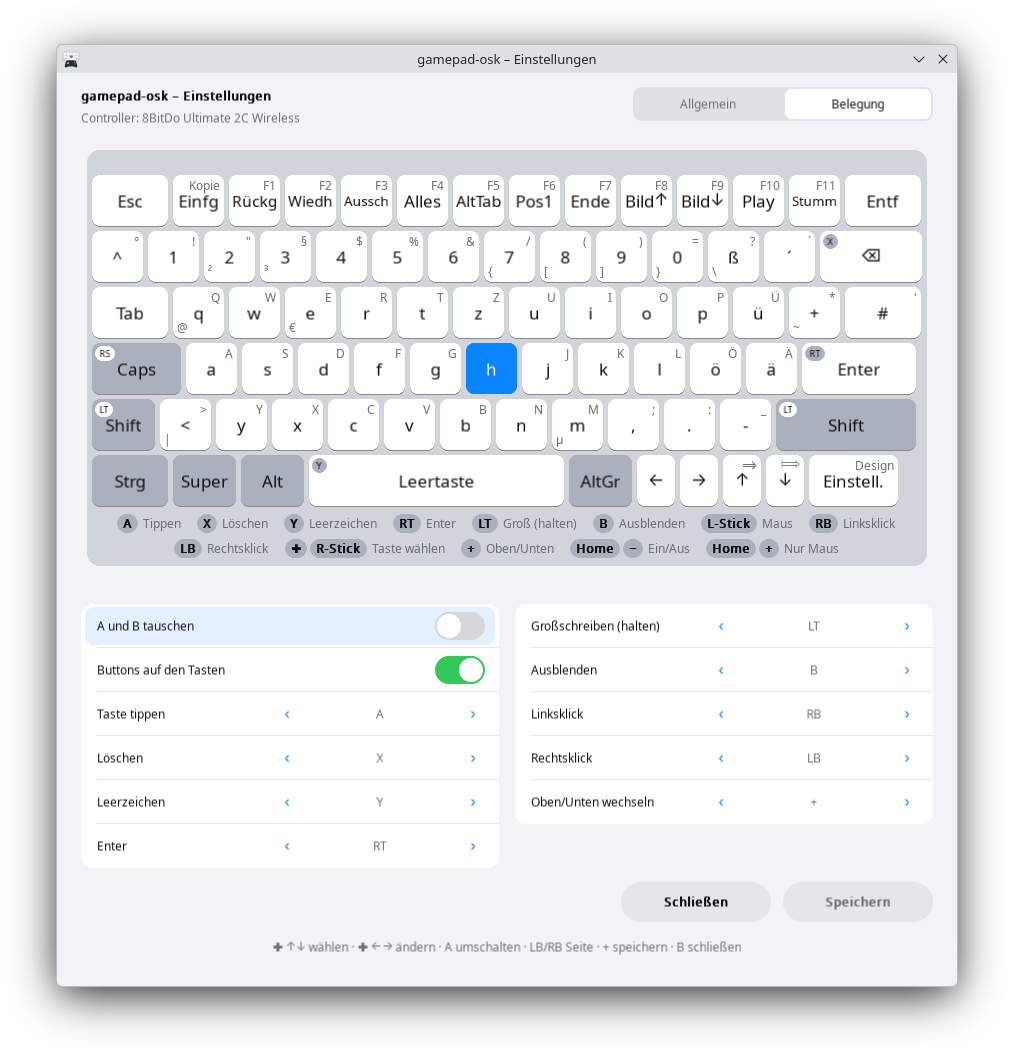
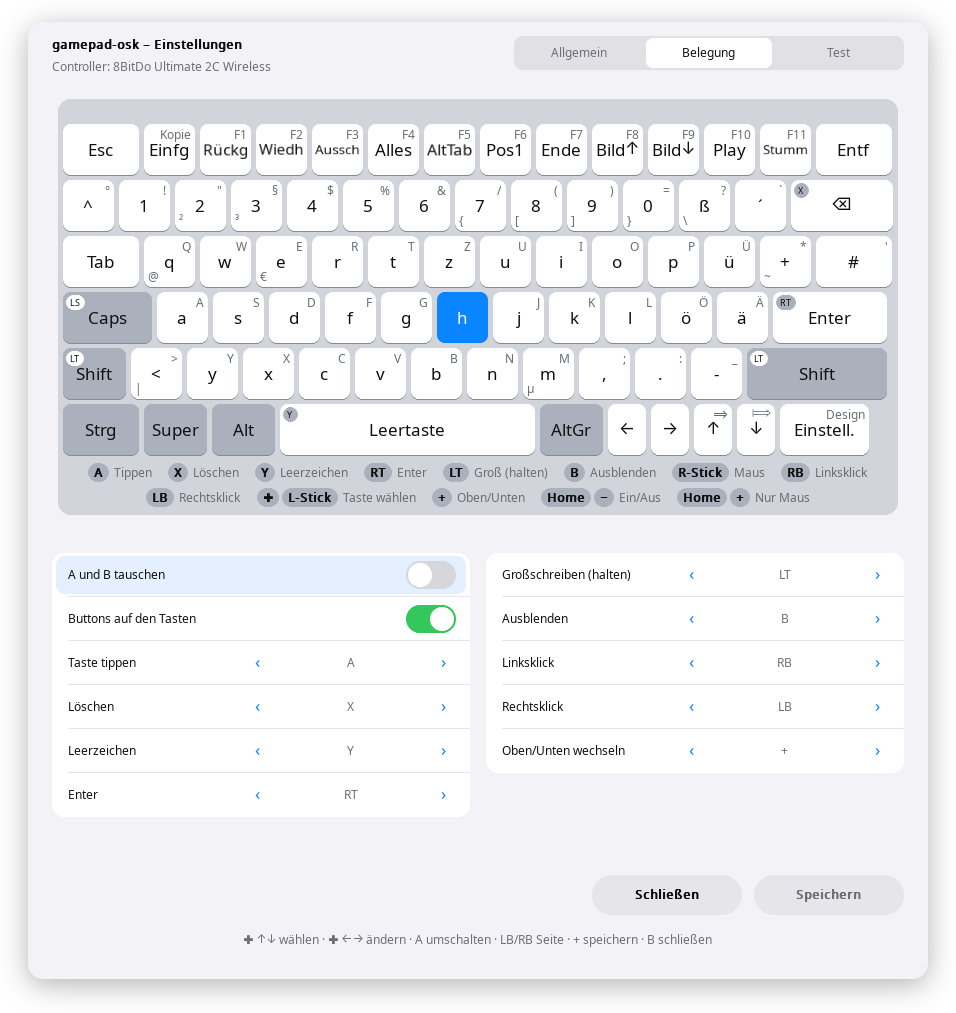
docs: render mouse badge and settings screenshots off-screen
New --mouse-badge for --screenshot and GAMEPAD_OSK_SETTINGS_SHOT for the
settings window: clean pictures without the desktop behind them, now
showing the fine-control sliders.

diff --git a/screenshot.go b/screenshot.go
@@ -2,6 +2,7 @@ package main
 
 import (
 	"fmt"
+	"os"
 	"runtime"
 )
 
@@ -13,6 +14,7 @@ type ScreenshotOptions struct {
 	CursorRow   int
 	CursorCol   int
 	Shift       bool
+	MouseBadge  bool // render the mouse-mode badge instead of the keyboard
 }
 
 // RenderScreenshot draws the keyboard once into a BMP file. It needs no
@@ -50,6 +52,10 @@ func RenderScreenshot(cfg Config, o ScreenshotOptions) error {
 		height += LegendHeight(lines, lm, pad)
 	}
 
+	if o.MouseBadge {
+		return renderMouseBadgeShot(cfg, o, profile, lang, unit, pad, fonts)
+	}
+
 	sdlr, surf, err := SDL3CreateSurfaceRenderer(width, height)
 	if err != nil {
 		fonts.Close()
@@ -78,5 +84,77 @@ func RenderScreenshot(cfg Config, o ScreenshotOptions) error {
 	}
 	fmt.Printf("Saved %dx%d %s (theme %s, layout %s, controller %s)\n",
 		width, height, o.Path, cfg.Theme.Name, layoutName, profile.Name)
+	return nil
+}
+
+// renderMouseBadgeShot draws the mouse-mode badge on a transparent
+// background, nothing behind it (README/blog image).
+func renderMouseBadgeShot(cfg Config, o ScreenshotOptions, profile ControllerProfile, lang string, unit, pad int32, fonts *FontSet) error {
+	items := BuildMouseLegend(cfg, profile, lang)
+	// Measure with a throwaway renderer, then draw at the exact size.
+	mr, ms, err := SDL3CreateSurfaceRenderer(1, 1)
+	if err != nil {
+		fonts.Close()
+		return err
+	}
+	measure := NewRenderer(mr, GetTheme(cfg.Theme.Name), unit, pad, fonts, nil, legendMetrics{})
+	w, h := measure.MouseBadgeSize(items)
+	SDL3DestroyRenderer(mr)
+	SDL3DestroySurface(ms)
+
+	sdlr, surf, err := SDL3CreateSurfaceRenderer(w, h)
+	if err != nil {
+		fonts.Close()
+		return err
+	}
+	defer SDL3DestroySurface(surf)
+	defer SDL3DestroyRenderer(sdlr)
+	SDL3SetRenderDrawBlendMode(sdlr, 1)
+	rend := NewRenderer(sdlr, GetTheme(cfg.Theme.Name), unit, pad, fonts, nil, legendMetrics{})
+	defer rend.Destroy()
+	rend.MarkDirty()
+	rend.DrawMouseBadge(items)
+	if err := SDL3SaveBMP(surf, o.Path); err != nil {
+		return err
+	}
+	fmt.Printf("Saved %dx%d %s (mouse badge, theme %s, controller %s)\n", w, h, o.Path, cfg.Theme.Name, profile.Name)
+	return nil
+}
+
+// renderSettingsShot draws the settings window once into a BMP file
+// (README/blog images). GAMEPAD_OSK_SETTINGS_PAD sets the controller name
+// shown in the header; [gamepad] controller sets the button names.
+func renderSettingsShot(s *settingsUI, path string) error {
+	s.padName = os.Getenv("GAMEPAD_OSK_SETTINGS_PAD")
+	if p := s.cfg.Gamepad.Controller; p != "" && p != ProfileAuto {
+		s.detectedProf = p
+	}
+	s.layoutWindow(1080)
+	sdlr, surf, err := SDL3CreateSurfaceRenderer(s.winW, s.winH)
+	if err != nil {
+		return err
+	}
+	defer SDL3DestroySurface(surf)
+	defer SDL3DestroyRenderer(sdlr)
+	SDL3SetRenderDrawBlendMode(sdlr, 1)
+	s.sdl = sdlr
+	s.uiFonts, err = LoadFonts(52, 0)
+	if err != nil {
+		return err
+	}
+	s.ui = NewRenderer(sdlr, GetTheme("light"), 52, 6, s.uiFonts, nil, legendMetrics{})
+	s.ui.Embedded = true
+	defer s.ui.Destroy()
+	s.rebuildPreview()
+	defer func() {
+		if s.preview != nil {
+			s.preview.Destroy()
+		}
+	}()
+	s.draw()
+	if err := SDL3SaveBMP(surf, path); err != nil {
+		return err
+	}
+	fmt.Printf("Saved %dx%d %s (settings page %d)\n", s.winW, s.winH, path, s.page)
 	return nil
 }

diff --git a/main.go b/main.go
@@ -92,6 +92,8 @@ func main() {
 			}
 		case "--shift":
 			shot.Shift = true
+		case "--mouse-badge":
+			shot.MouseBadge = true
 		case "--config", "-c":
 			if i+1 < len(args) {
 				i++
@@ -257,6 +259,7 @@ OPTIONS
   --controller NAME    Button names: auto, xbox, playstation, nintendo, 8bitdo, generic
   --screenshot FILE    Render the keyboard into a BMP file and exit
                        (with --cursor ROW,COL and --shift for the picture)
+  --mouse-badge        With --screenshot: render the mouse-mode badge instead
   --toggle             Toggle visibility of running instance (for evsieve/hotkey)
   --mouse              Toggle mouse mode of the running instance (keyboard hidden)
   --daemon             Start hidden, wait for toggle combo or --toggle to show

diff --git a/settings.go b/settings.go
@@ -928,13 +928,19 @@ func RunSettings(cfg Config) error {
 	detected := ResolveLayout("auto")
 	s.detLayout = detected
 	s.tx = settingsTexts[UILanguage(detected)]
-	s.reopenGamepad()
+	shot := os.Getenv("GAMEPAD_OSK_SETTINGS_SHOT") // docs screenshots: render off-screen
+	if shot == "" {
+		s.reopenGamepad()
+	}
 	s.buildRows()
 	switch os.Getenv("GAMEPAD_OSK_SETTINGS_PAGE") { // docs screenshots
 	case "buttons":
 		s.setPage(1)
 	case "test":
 		s.setPage(2)
+	}
+	if shot != "" {
+		return renderSettingsShot(s, shot)
 	}
 
 	if os.Getenv("WAYLAND_DISPLAY") != "" && os.Getenv("SDL_VIDEODRIVER") == "" {

diff --git a/README.md b/README.md
@@ -139,7 +139,7 @@ Xbox names:
 click, the other stick scrolls, d-pad = arrow keys, B ends mouse mode,
 Guide + Select switches to the keyboard.
 
-<img src="docs/mouse.png" width="420" alt="Mouse mode badge: a small rounded bar at the bottom of the screen with a blue mouse symbol and A Klick, LB Rechtsklick, R-Stick Scrollen, B Beenden">
+<img src="docs/mouse.png" width="420" alt="Mouse mode badge: a small rounded bar at the bottom of the screen with a blue mouse symbol and A Klick, LB Rechtsklick, L-Stick Scrollen, B Beenden">
 
 While the keyboard is **hidden** it reads only the two combos: no mouse,
 no grab. Games keep the controller to themselves (e.g. Minecraft with
@@ -151,7 +151,7 @@ reach the game.
 Start menu → **gamepad-osk Settings**, `gamepad-osk --settings`, or the
 **Settings** key on the keyboard itself (Shift + Settings cycles themes).
 
-<img src="docs/settings.png" width="640" alt="Settings window: keyboard preview on top, tabs General and Buttons, below two columns with Start at login, Theme, Keyboard layout, Button names, Show/hide with, Mouse only with, Mouse, Mouse speed, Transparency, Show button legend, Position and Size, buttons Close and Save">
+<img src="docs/settings.png" width="640" alt="Settings window: keyboard preview on top, tabs General and Buttons, below two columns with Start at login, Theme, Keyboard layout, Button names, Show/hide with, Mouse only with, Mouse, Mouse speed, Mouse fine control, Scroll fine control, Transparency, Show button legend, Position and Size, buttons Close and Save">
 
 D-pad up/down selects, left/right changes, A toggles, LB/RB switch between
 the pages *General*, *Buttons* and *Test*, Start saves, B closes. On *Buttons* every
@@ -214,7 +214,11 @@ take effect after `systemctl --user restart gamepad-osk`.
 gamepad-osk --layout de --controller nintendo --theme light --cursor 3,6 --screenshot shot.bmp
 ```
 
-renders the keyboard off-screen. All pictures here are made that way.
+renders the keyboard off-screen. All pictures here are made that way:
+`--mouse-badge` renders the mouse-mode badge instead, and
+`GAMEPAD_OSK_SETTINGS_SHOT=shot.bmp gamepad-osk --settings` the settings
+window (`GAMEPAD_OSK_SETTINGS_PAGE=buttons|test` for the other pages,
+`GAMEPAD_OSK_SETTINGS_PAD` for the controller name in the header).
 
 ## Credits and license
 
